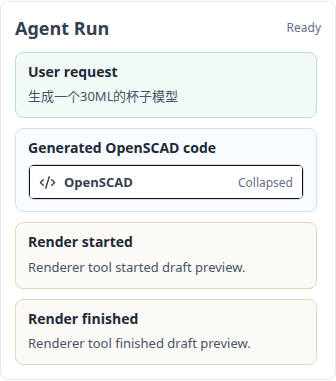
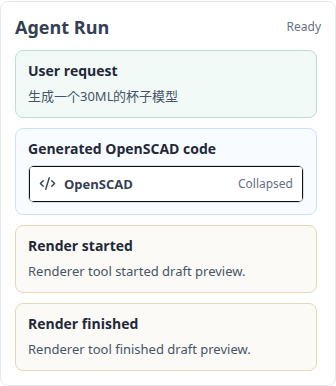
Stabilize agent run snapshots

diff --git a/src/styles.css b/src/styles.css
@@ -709,6 +709,11 @@ textarea {
 
 .agentRun .panelHeader h2 {
   font-size: 18px;
+  line-height: 22px;
+}
+
+.agentRun .panelHeader span {
+  line-height: 16px;
 }
 
 .agentTimeline {
@@ -756,7 +761,7 @@ textarea {
 .agentEvent h3 {
   color: #1f2937;
   font-size: 14px;
-  line-height: 1.2;
+  line-height: 18px;
   margin: 0;
 }
 
@@ -764,7 +769,7 @@ textarea {
 .agentEvent ul {
   color: #475467;
   font-size: 13px;
-  line-height: 1.45;
+  line-height: 19px;
   margin: 0;
 }
 
@@ -807,7 +812,7 @@ textarea {
   color: #d1fae5;
   font-family: "SFMono-Regular", Consolas, "Liberation Mono", monospace;
   font-size: 12px;
-  line-height: 1.45;
+  line-height: 18px;
   margin: 0;
   max-height: 190px;
   overflow: auto;
@@ -827,9 +832,10 @@ textarea {
   color: #344054;
   cursor: pointer;
   display: flex;
+  min-height: 36px;
   justify-content: space-between;
   list-style: none;
-  padding: 8px 10px;
+  padding: 0 10px;
 }
 
 .chatCodeDisclosure summary::-webkit-details-marker {
@@ -842,15 +848,18 @@ textarea {
   font-size: 13px;
   font-weight: 800;
   gap: 8px;
+  line-height: 18px;
 }
 
 .chatCodeDisclosure summary small {
   color: #667085;
   font-size: 12px;
+  line-height: 16px;
 }
 
 .chatCodeDisclosure .agentCodePreview {
   border-radius: 0;
+  height: 72px;
   max-height: 220px;
 }
 